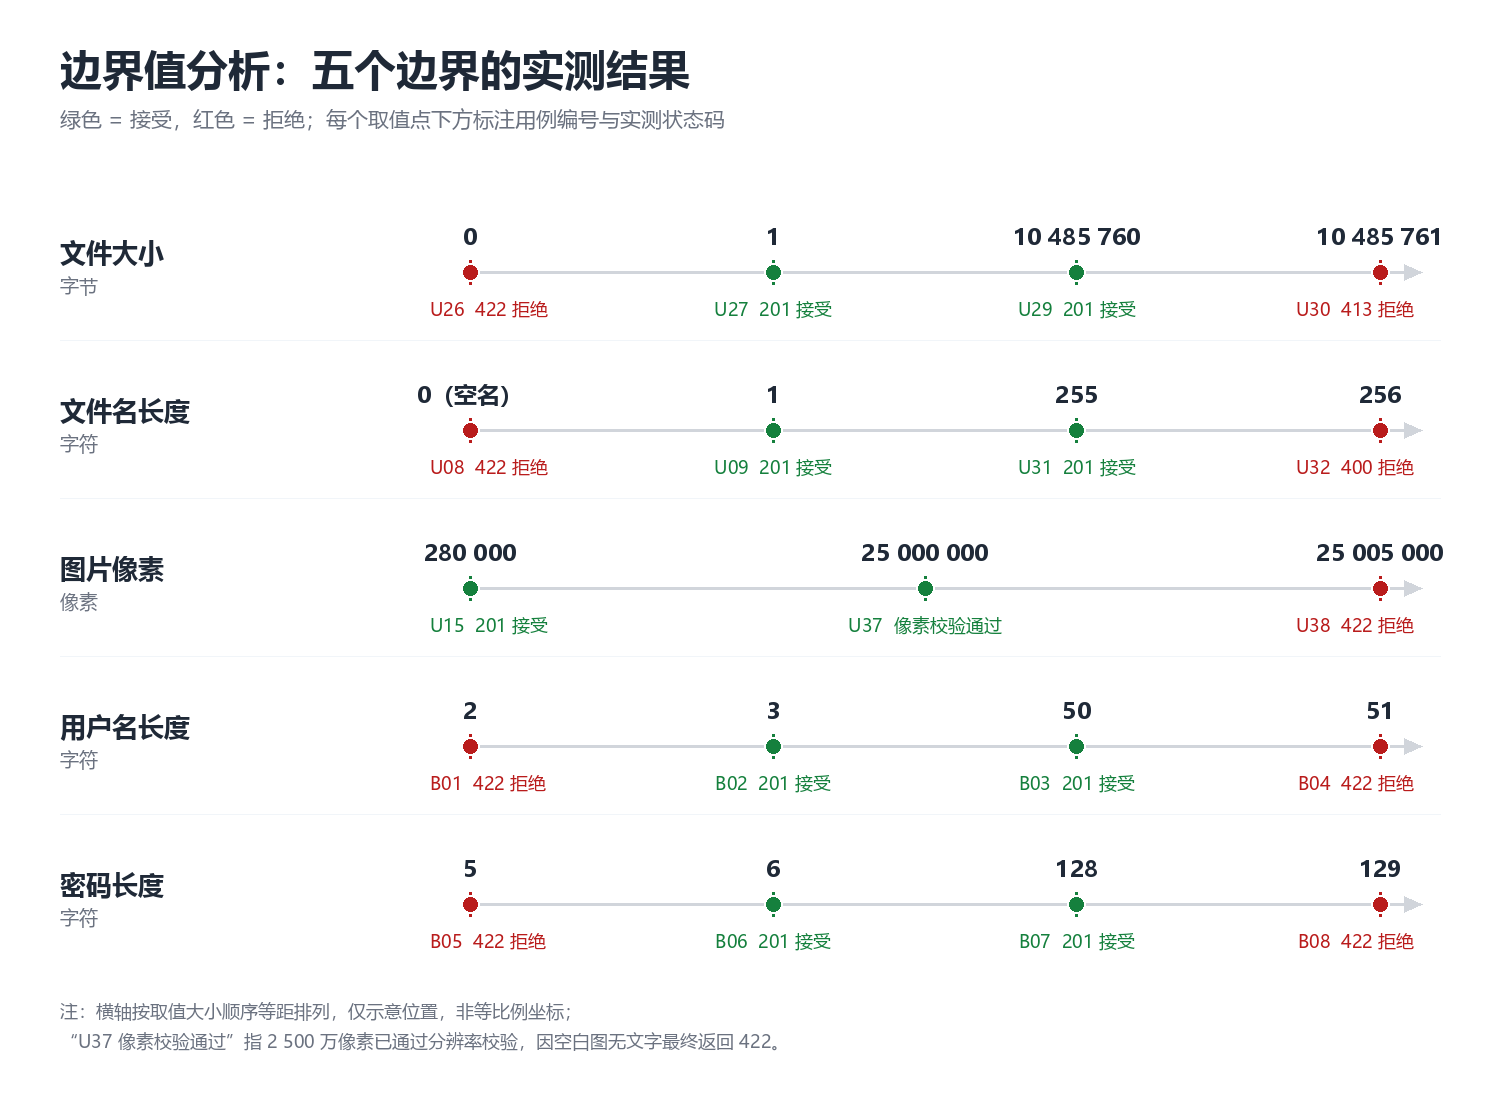
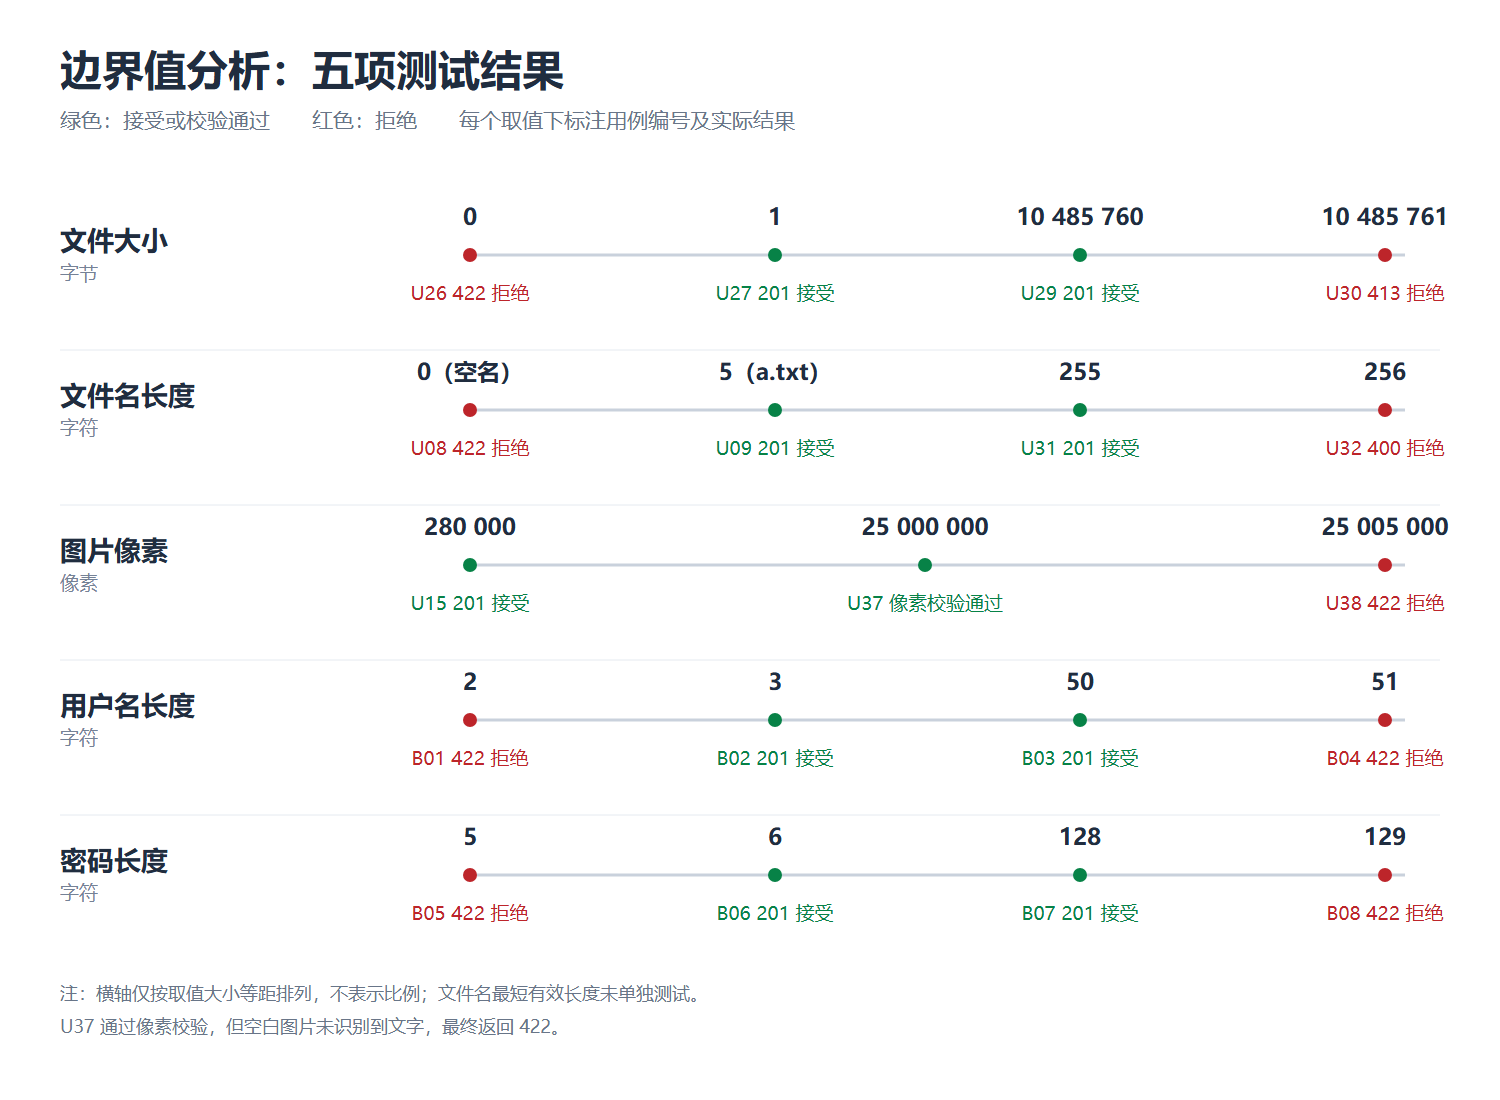
Fix test paths and match score presentation

diff --git a/frontend/src/pages/Matches.tsx b/frontend/src/pages/Matches.tsx
@@ -210,14 +210,15 @@ export default function Matches() {
             {matches.map((m) => {
               const resume = resumes.find((r) => r.id === m.resume_id);
               const job = jobs.find((j) => j.id === m.job_id);
+              const displayedScore = m.overall_score == null ? null : Math.round(m.overall_score);
               return (
                 <TableRow key={m.id}>
                   <TableCell className="font-medium">{resume?.title || m.resume_id.slice(0, 8)}</TableCell>
                   <TableCell>{job?.title || m.job_id.slice(0, 8)}</TableCell>
                   <TableCell>
-                    {m.overall_score !== null && m.overall_score !== undefined ? (
-                      <span className={`font-bold text-lg ${getScoreColor(m.overall_score)}`}>
-                        {Math.round(m.overall_score)}
+                    {displayedScore !== null ? (
+                      <span className={`font-bold text-lg ${getScoreColor(displayedScore)}`}>
+                        {displayedScore}
                       </span>
                     ) : (
                       <span className="text-muted-foreground/40">—</span>

diff --git a/docs/黑盒/黑盒测试脚本.py b/docs/黑盒/黑盒测试脚本.py
@@ -28,7 +28,7 @@ from dataclasses import dataclass
 from pathlib import Path
 
 BASE = Path(__file__).resolve().parent
-BACKEND = BASE.parent / "NewRepo-main" / "backend"
+BACKEND = BASE.parent.parent / "backend"
 RUN = BASE / "_run"
 
 # ---------- 隔离运行环境：临时数据库、上传目录、关闭真实 AI ----------
@@ -474,7 +474,7 @@ async def _(api, ctx):
     return status_is(r, 422, "未识别到文字"), observe(r, f"像素={MAX_PIXELS}")
 
 
-@case("U38", "U 简历上传", "A6 图片内容与像素", "边界值-越界", "2500 万 + 1 像素（5000×5001）", "over.png 空白", "422；提示分辨率过大")
+@case("U38", "U 简历上传", "A6 图片内容与像素", "边界值-越界", "2500 万 + 5000 像素（5000×5001）", "over.png 空白", "422；提示分辨率过大")
 async def _(api, ctx):
     r = await api.post(UPLOAD, headers=ctx["hr"], files={"file": ("over.png", png_bytes(size=(5000, 5001)))})
     return status_is(r, 422, "分辨率过大"), observe(r, f"像素={MAX_PIXELS + 5000}")

diff --git a/docs/黑盒/黑盒测试报告.md b/docs/黑盒/黑盒测试报告.md
@@ -2,7 +2,7 @@
 
 > **测试类型**：黑盒测试（等价类划分 + 边界值分析 + 错误推测）
 >
-> **被测系统**：SmartHire 智能招聘辅助系统（`NewRepo-main`）
+> **被测系统**：SmartHire 智能招聘辅助系统（项目根目录）
 >
 > **被测对象**：① 简历上传接口 `POST /api/v1/resumes/upload`；② 账号认证接口 `POST /api/v1/auth/register`、`POST /api/v1/auth/login`
 >
@@ -19,14 +19,14 @@
 - **简历上传接口**：文件类型、大小、像素、文件名、身份五类输入全部有确定规则，且不配置 DeepSeek Key 也能完整执行（只做文本提取）；
 - **账号认证接口**：用户名/密码长度、邮箱格式、角色枚举、唯一性、停用状态都是确定规则，是进入系统的第一道门。
 
-其余接口（岗位分析、匹配分析、报告生成）的核心结果由 AI 生成，输入输出不是确定映射，不适合作为本次黑盒的判定对象；它们放在第 7 节“局限”里说明。下文源码路径都相对 `NewRepo-main/`。
+其余接口（岗位分析、匹配分析、报告生成）的核心结果由 AI 生成，输入输出不是确定映射，不适合作为本次黑盒的判定对象；它们放在第 7 节“局限”里说明。下文源码路径均指向项目根目录内的文件。
 
 ### 1.2 对象 U：简历上传接口
 
 | 项      | 内容                                                                                                                                                                       |
 | ------ | ------------------------------------------------------------------------------------------------------------------------------------------------------------------------ |
 | 名称     | 简历上传接口 `upload_resume`                                                                                                                                                   |
-| 位置     | 后端 [resumes.py:129](../NewRepo-main/backend/app/api/v1/resumes.py#L129)；前端入口 [Resumes.tsx:99](../NewRepo-main/frontend/src/pages/Resumes.tsx#L99) 的隐藏文件选择框（`accept` 白名单） |
+| 位置     | 后端 [resumes.py:129](../../backend/app/api/v1/resumes.py#L129)；前端入口 [Resumes.tsx:99](../../frontend/src/pages/Resumes.tsx#L99) 的隐藏文件选择框（`accept` 白名单） |
 | 形态     | HTTP `POST /api/v1/resumes/upload`，`multipart/form-data`，文件字段名 `file`                                                                                                    |
 | 输入     | ① `Authorization: Bearer <access token>`；② 文件字节内容；③ 文件名（含扩展名）；④ 文件大小；⑤ 图片的像素尺寸                                                                                           |
 | 输出     | `201` 上传成功（返回 `id`、`title`、`status=PARSED`、`message`）；`400` 扩展名或文件名非法；`401` 未认证/令牌无效；`413` 超过 10 MB；`422` 解析失败（无文字、图片损坏、格式不支持、像素超限）                                      |
@@ -39,7 +39,7 @@
 | 项      | 内容                                                                                                                                                                                                                                                                |
 | ------ | ----------------------------------------------------------------------------------------------------------------------------------------------------------------------------------------------------------------------------------------------------------------- |
 | 名称     | 注册 `register`、登录 `login`                                                                                                                                                                                                                                          |
-| 位置     | 后端 [auth.py:26](../NewRepo-main/backend/app/api/v1/auth.py#L26)（注册）、[auth.py:74](../NewRepo-main/backend/app/api/v1/auth.py#L74)（登录）；前端 [Register.tsx](../NewRepo-main/frontend/src/pages/Register.tsx)、[Login.tsx](../NewRepo-main/frontend/src/pages/Login.tsx) |
+| 位置     | 后端 [auth.py:26](../../backend/app/api/v1/auth.py#L26)（注册）、[auth.py:74](../../backend/app/api/v1/auth.py#L74)（登录）；前端 [Register.tsx](../../frontend/src/pages/Register.tsx)、[Login.tsx](../../frontend/src/pages/Login.tsx) |
 | 形态     | HTTP `POST`，`application/json`                                                                                                                                                                                                                                    |
 | 输入（注册） | `username`、`email`、`password`、`role`（可省略）                                                                                                                                                                                                                         |
 | 输入（登录） | `username`、`password`                                                                                                                                                                                                                                             |
@@ -115,7 +115,7 @@
 | A3 文件扩展名   | 10 个白名单后缀（不区分大小写）：`.txt`（U09，大写 `.TXT` 见 U10）、`.md`（U11）、`.markdown`（U12）、`.pdf`（U13）、`.docx`（U14）、`.png`（U15）、`.jpg`（U16）、`.jpeg`（U17）、`.webp`（U18）、`.bmp`（U19） | 白名单外后缀：`.doc`（U20）、`.exe`（U21）、`.csv`（U22）；无后缀（U23）；只有点号 `.txt`（U24）；后缀带尾随空格 `"a.txt "`（U25） |
 | A4 文件大小    | 1 字节（U27）到恰好 10 MB（U29）之间的任意大小                                                                                                                                   | 0 字节（U26）；10 MB + 1 字节（U30）；内容为纯空白（U28，属内容类无效）                                               |
 | A5 文件名     | 长度 1–255 且不含控制字符；含路径分隔符时按最后一段归一（U31、U34、U35、U36）                                                                                                                 | 长度 256 字符（U32）；含控制字符 `\x01`（U33）                                                             |
-| A6 图片内容与像素 | 真实格式属于 JPEG/PNG/WEBP/BMP、像素 ≤ 2 500 万、且含可识别文字（U15）                                                                                                               | 像素 2 500 万 + 1（U38）；内容不是图片（U39）；真实格式为 GIF 但后缀为 `.png`（U40）；格式合法但无文字（U16–U19、U37）             |
+| A6 图片内容与像素 | 真实格式属于 JPEG/PNG/WEBP/BMP、像素 ≤ 2 500 万、且含可识别文字（U15）                                                                                                               | 像素 2 500 万 + 5 000（U38）；内容不是图片（U39）；真实格式为 GIF 但后缀为 `.png`（U40）；格式合法但无文字（U16–U19、U37）             |
 | A7 可见后置条件  | 成功后可查询到记录、标题与状态正确（U41）；同名文件两次上传得到两条独立记录（U42）                                                                                                                     | 解析失败后记录数与上传目录文件数都不变（U43）                                                                     |
 
 > 说明：U16–U19 的 `.jpg/.jpeg/.webp/.bmp` 内容合法但为空白图，期望 `422 未识别到文字`。这个结果同时证明“该扩展名已被受理、对应解析器已执行”，因此它们既是 A3 的有效类证据，又是 A6 的“无文字”无效类证据。
@@ -147,7 +147,7 @@
 | 变量    | 规则                     | 下界 − 1       | 下界                     | 上界                        | 上界 + 1                    |
 | ----- | ---------------------- | ------------ | ---------------------- | ------------------------- | ------------------------- |
 | 文件大小  | 0 < 大小 ≤ 10 485 760 字节 | 0 字节（U26）    | 1 字节（U27）              | 10 485 760 字节（U29）        | 10 485 761 字节（U30）        |
-| 文件名长度 | 1 ≤ 长度 ≤ 255 字符        | 0，即空文件名（U08） | 1 字符文件名（U09 的 `a.txt`） | 255 字符（U31）               | 256 字符（U32）               |
+| 文件名长度 | 1 ≤ 长度 ≤ 255 字符        | 0，即空文件名（U08） | 最短有效文件名未单独测试；U09 为 `a.txt`（5 字符） | 255 字符（U31）               | 256 字符（U32）               |
 | 图片像素  | 宽 × 高 ≤ 25 000 000     | —（像素无负值）     | 280 000（U15，1400×200）  | 25 000 000（U37，5000×5000） | 25 005 000（U38，5000×5001） |
 | 用户名长度 | 3–50 字符                | 2 字符（B01）    | 3 字符（B02）              | 50 字符（B03）                | 51 字符（B04）                |
 | 密码长度  | 6–128 字符               | 5 字符（B05）    | 6 字符（B06）              | 128 字符（B07）               | 129 字符（B08）               |
@@ -221,7 +221,7 @@
 | U35 | `C:\Windows\abs.txt`           | 201，标题 abs.txt            | 201，标题 abs.txt                | 通过  |
 | U36 | 中文简历.txt                       | 201，标题保留中文                | 201，标题中文简历.txt                | 通过  |
 | U37 | limit.png 5000×5000（2500 万像素）  | 422 未识别到文字（像素校验通过）        | 422 未识别到文字                    | 通过  |
-| U38 | over.png 5000×5001（2500 万 + 1） | 422 分辨率过大                 | 422 分辨率过大                     | 通过  |
+| U38 | over.png 5000×5001（2500 万 + 5000） | 422 分辨率过大                 | 422 分辨率过大                     | 通过  |
 | U39 | broken.jpg（内容为文本）              | 422 图片损坏                  | 422 图片损坏                      | 通过  |
 | U40 | renamed.png（实为 GIF）            | 422 图片格式不受支持              | 422 图片格式不受支持                  | 通过  |
 | U41 | 上传 visible.txt 后查列表            | 201 且列表可见                 | 201，列表命中，PARSED               | 通过  |
@@ -322,18 +322,19 @@
 | [黑盒测试脚本.py](黑盒测试脚本.py)   | 可执行脚本：自建隔离环境、执行 65 条用例、输出结果并生成 CSV           |
 | [执行结果.txt](执行结果.txt)     | 最近一次运行的完整输出（65/65 通过，退出码 0）                  |
 | [边界值分析图.png](边界值分析图.png) | 五个边界的实测取值与接受/拒绝结果，可直接插入 PPT                  |
+| [边界值分析图.svg](边界值分析图.svg) | 边界值分析图的可编辑矢量版本 |
 | `_run/`                  | 运行时生成的临时数据库、上传目录与后端日志，可随时删除                  |
 
-复现（Windows，后端依赖已安装）：
+复现（Windows，在项目根目录运行，后端依赖已安装）：
 
 ```powershell
-cd 黑盒
-..\NewRepo-main\backend\.venv\Scripts\python.exe 黑盒测试脚本.py
+.\backend\.venv\Scripts\python.exe .\docs\黑盒\黑盒测试脚本.py
 ```
 
 说明：
 
 - 不需要启动前后端服务，也不需要 DeepSeek Key；
-- 脚本每次运行都会重建 `_run/blackbox.db` 与 `_run/uploads`，不会读写 `NewRepo-main` 的业务数据库；
+- 脚本每次运行都会重建 `docs/黑盒/_run/`，包括其中的临时数据库和上传目录，不会读写项目的业务数据库；
+- 运行后会更新本目录中的 `执行结果.txt` 和 `测试用例.csv`；如需保留原有结果，请先备份；
 - 任一用例失败时脚本退出码为 `1`，并在“结论”段列出失败用例的期望与实测；
 - 修改用例只需在脚本中调整 `@case(...)` 装饰的参数与断言。

diff --git a/docs/白盒/白盒测试报告.md b/docs/白盒/白盒测试报告.md
@@ -13,7 +13,7 @@
 | 项      | 内容                                                                       |
 | ------ | ------------------------------------------------------------------------ |
 | 名称     | 匹配分数判级函数                                                                 |
-| 位置     | 前端「匹配分析」页面评分列，源码第 91–96 行（`NewRepo-main/frontend/src/pages/Matches.tsx`） |
+| 位置     | 前端「匹配分析」页面评分列，源码第 91–96 行（`frontend/src/pages/Matches.tsx`） |
 | 形态     | 页面内部的纯函数：输入一个匹配分数，返回一个表示等级的样式类名                                          |
 | 输入     | 0 到 100 的匹配分数；报告未完成或分析失败时没有分数（空值）                                        |
 | 输出     | 绿色（高匹配）、琥珀色（中匹配）、红色（低匹配）、不染色（无等级）                                        |
@@ -102,11 +102,10 @@ __cov.stmt('语句7'); return 'text-destructive';
 
 ## 5 执行结果
 
-运行方式：
+运行方式（在项目根目录）：
 
 ```powershell
-cd 判级函数白盒测试
-node --no-warnings 白盒测试脚本.mjs
+node --no-warnings .\docs\白盒\白盒测试脚本.mjs
 ```
 
 完整输出见 [执行结果.txt](执行结果.txt)，摘要如下：
@@ -143,6 +142,7 @@ node --no-warnings 白盒测试脚本.mjs
 
 - 只验证“给定分数如何分级”，不验证分数本身是否准确（分数由 AI 分析产生）；
 - 不验证颜色在真实浏览器里的最终呈现（属于构建与视觉验收）；
+- 页面会先将分数四舍五入，再将显示值传给判级函数；本报告的用例直接测试传入函数的值。
 - 不验证 80 / 60 两个阈值的业务合理性（属于需求决策）。
 
 ---
@@ -159,13 +159,12 @@ node --no-warnings 白盒测试脚本.mjs
 | [执行结果.txt](执行结果.txt) | 最近一次运行的完整输出，作为测试证据 |
 | [导出图片.html](导出图片.html) | 仅用于把流程图导出为图片 |
 
-复现：
+复现（在项目根目录运行，需要 Node.js 22.13 或更新版本）：
 
 ```powershell
-cd 判级函数白盒测试
-node --no-warnings 白盒测试脚本.mjs
+node --no-warnings .\docs\白盒\白盒测试脚本.mjs
 ```
 
-脚本会先输出【被测对象】与原函数，再输出用例执行表、四类覆盖表与结论；任一断言失败或覆盖率不足 100% 时退出码为 1。修改用例只需编辑脚本里的 `用例表` 数组。
+脚本会先输出【被测对象】与原函数，再输出用例执行表、四类覆盖表与结论，并更新本目录中的 `执行结果.txt`；如需保留原有结果，请先备份。任一断言失败或覆盖率不足 100% 时退出码为 1。修改用例只需编辑脚本里的 `用例表` 数组。
 
 

diff --git a/docs/software-engineering/第6章-测试内容补充.md b/docs/software-engineering/第6章-测试内容补充.md
@@ -1,0 +1,25 @@
+# 第 6 章软件测试：内容补充底稿
+
+本文供整合进课程报告第 6 章时参考。测试数据和结果以对应测试报告与脚本为依据；页面操作截图及真实 AI 服务验证仍需另行补充。
+
+## 6.1 测试目标与环境
+
+测试主要检查账号认证、简历上传及匹配分数的颜色分级是否符合预期。黑盒测试使用独立 SQLite 测试数据库与上传目录，通过应用接口执行；白盒测试读取前端匹配页面中的颜色判级函数。测试未配置真实 DeepSeek 密钥，也未验证 AI 生成内容的准确性。
+
+## 6.2 黑盒测试
+
+针对简历上传和账号认证，采用等价类划分、边界值分析和错误推测设计用例。测试涉及身份认证、文件格式与大小、图片像素、文件名长度、用户名和密码长度等。独立测试环境中，简历上传 43 条、账号认证 22 条，共 65 条用例通过。
+
+可插入[边界值分析图](../黑盒/边界值分析图.png)，并从[黑盒测试报告](../黑盒/黑盒测试报告.md)和[测试用例表](../黑盒/测试用例.csv)选取有代表性的用例，展示输入、预期结果、实际结果及结论。图中横轴为示意位置，文件名最短有效长度尚未单独测试。
+
+## 6.3 白盒测试
+
+选择匹配分数颜色判级函数作为被测对象，围绕缺失值、60 分和 80 分等边界设计 12 条用例。测试通过对函数代码插桩统计执行情况：12 条用例通过，语句 7/7、判定分支 6/6、条件 4/4、路径 4/4。上述覆盖情况仅针对该函数，并非整个系统的覆盖率。
+
+可插入[函数流程图](../白盒/流程图.png)，参考[白盒测试报告](../白盒/白盒测试报告.md)中的用例和覆盖矩阵。页面先对分数四舍五入，再用显示值判断颜色；白盒用例直接测试传入函数的值。
+
+## 6.4 结论与待补充内容
+
+本次接口测试与函数测试在各自范围内通过。仍需通过实际页面操作，补充招聘方和求职者的身份登录、简历上传、岗位浏览、匹配结果查看等流程的测试记录和截图；真实 AI 服务的解析质量及匹配结果准确性也未包含在上述测试中。
+
+测试复现方式和环境要求见两份测试报告。实际运行脚本会更新测试目录内的结果文件，需保留历史结果时应先备份。
